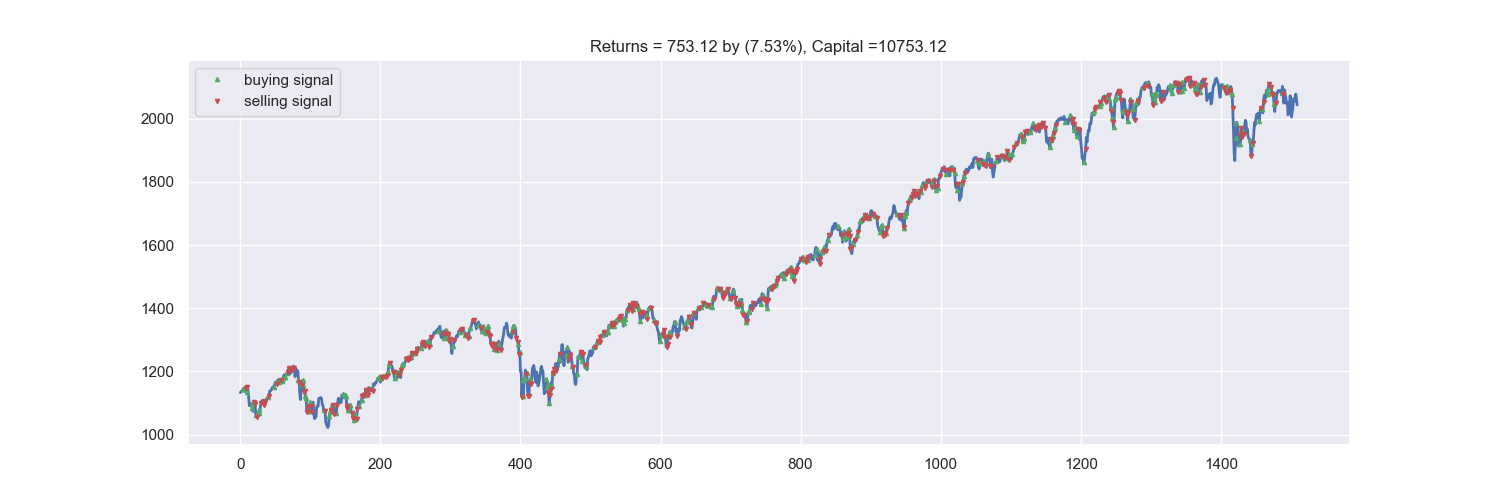
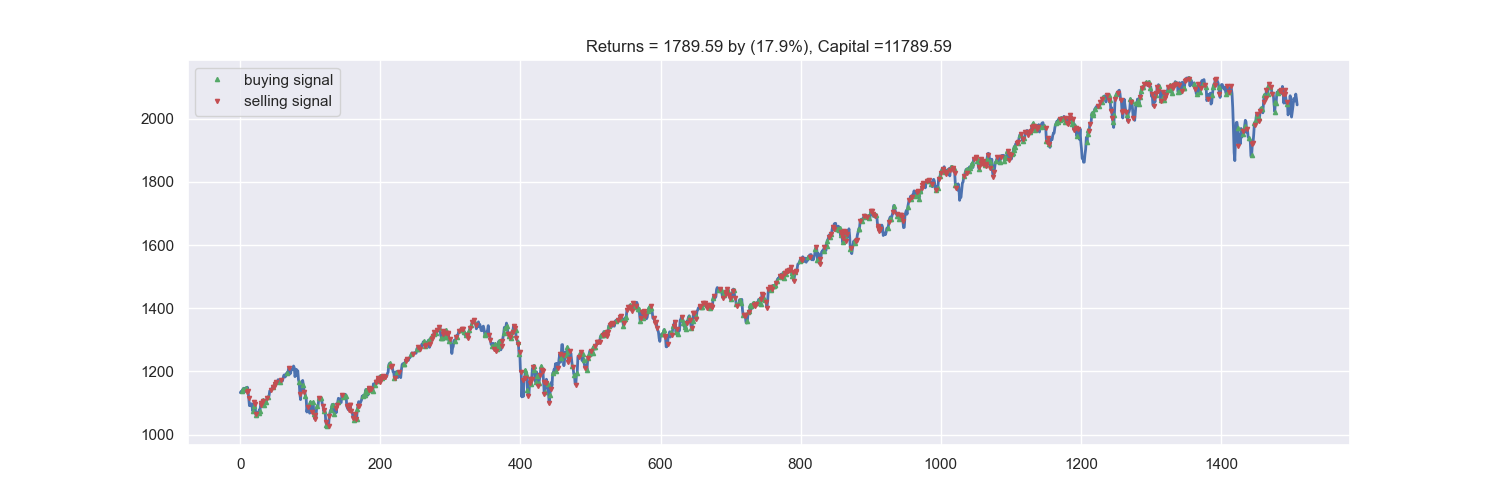
added requirement.txt and readme

diff --git a/Config.py b/Config.py
@@ -2,5 +2,5 @@ initial_money = 10000
 window_size = 30
 skip = 1
 batch_size = 32
-iterations = 10
+iterations = 200
 checkpoint = 10

diff --git a/README.md b/README.md
@@ -1,1 +1,14 @@
-# AI-Stock-Trading-Assistantance
+# AI-Stock-Trading-Assistance
+
+## Steps to run project
+- Step 1: Create Environment
+    `conda create --name <projectName>`
+- Step 2: Activate environment
+    `conda activate <projectName>`
+- Step 3: Install the dependencies
+    `pip install -r requirement.txt`
+- Step 4: Run the Simulation
+    `python Main.py simulate`
+
+## AI Stock Trading Signals
+![Alt text](Q-Learning_Agent_Recommendation.png?raw=true)
